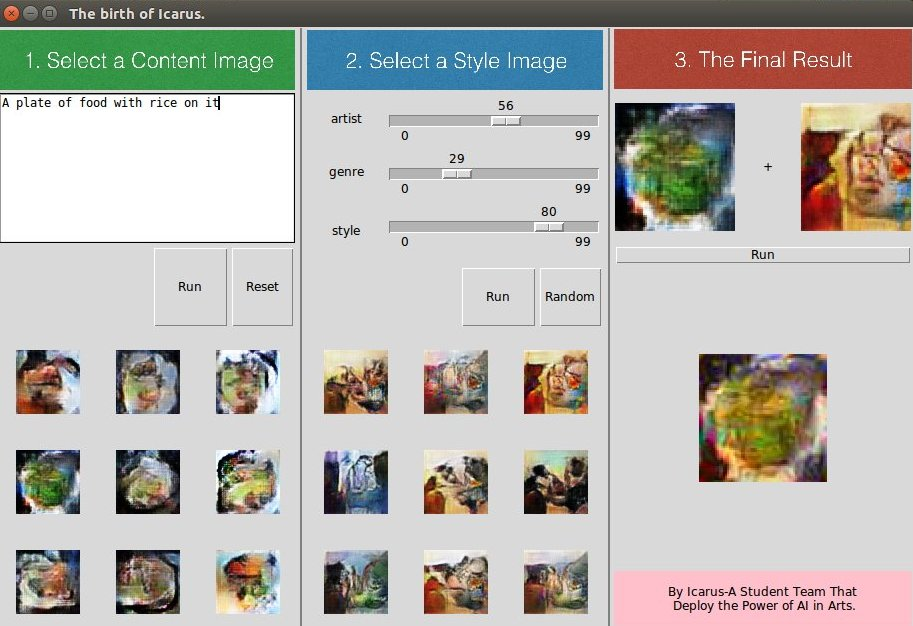
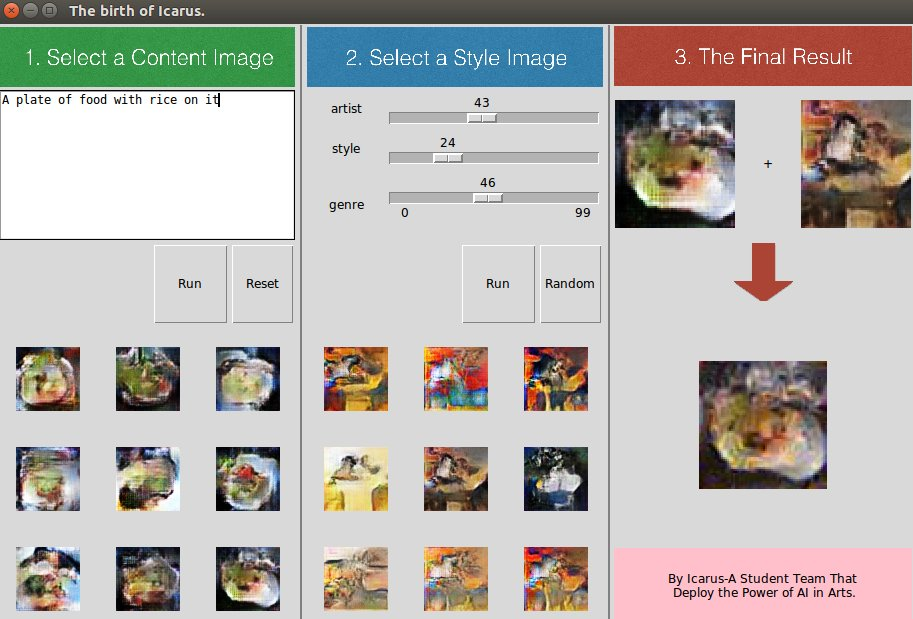
update the UI

diff --git a/GUI.py b/GUI.py
@@ -6,7 +6,6 @@ from utils import *
 from embedding import tools
 import scipy.misc
 import numpy as np
-import os
 
 
 
@@ -33,7 +32,7 @@ class GUI:
 		self.dcgan = dcgan
 		self.dcgan2 = dcgan2
 		self.master = master
-		button_height=10
+
 
 		self.zdata = np.zeros(90,dtype=np.int32)
 
@@ -91,25 +90,25 @@ class GUI:
 		self.middleup.add(self.barmiddleup, height=bar_height)
 
 		self.middleinput = PanedWindow(self.middle, orient=VERTICAL)
-		self.middleup.add(self.middleinput, width=unit_width, height=input_height+button_height)
+		self.middleup.add(self.middleinput, width=unit_width, height=input_height)
 
 		self.i1 = PanedWindow(self.middleinput, orient=HORIZONTAL)
-		self.middleinput.add(self.i1, height=input_height/3)
-		self.l1 = Label(self.i1, text="artist")
+		self.middleinput.add(self.i1, height=input_height/4)
+		self.l1 = Label(self.i1, text="xxx")
 		self.i1.add(self.l1, width=unit_width/4)
 		self.s1 = Scale(self.i1, from_=0, width=10, to=99, length=30, tickinterval=99, orient=HORIZONTAL, command=self.slided1)
 		self.i1.add(self.s1, width=3*unit_width/4)
 
 		self.i2 = PanedWindow(self.middleinput, orient=HORIZONTAL)
-		self.middleinput.add(self.i2, height=input_height/3)
-		self.l2 = Label(self.i2, text="genre")
+		self.middleinput.add(self.i2, height=input_height/4)
+		self.l2 = Label(self.i2, text="xxx")
 		self.i2.add(self.l2, width=unit_width/4)
 		self.s2 = Scale(self.i2, from_=0, width=10, to=99, length=30, tickinterval=99, orient=HORIZONTAL, command=self.slided2)
 		self.i2.add(self.s2, width=3*unit_width/4)
 
 		self.i3 = PanedWindow(self.middleinput, orient=HORIZONTAL)
-		self.middleinput.add(self.i3, height=input_height/3)
-		self.l3 = Label(self.i3, text="style")
+		self.middleinput.add(self.i3, height=input_height/4)
+		self.l3 = Label(self.i3, text="xxx")
 		self.i3.add(self.l3, width=unit_width/4)
 		self.s3 = Scale(self.i3, from_=0, width=10, to=99, length=30, tickinterval=99, orient=HORIZONTAL, command=self.slided3)
 		self.i3.add(self.s3, width=3*unit_width/4)
@@ -149,14 +148,16 @@ class GUI:
 
 
 		self.projectButtons = PanedWindow(self.right, orient=HORIZONTAL)
-		self.right.add(self.projectButtons, width=unit_width, height=button_height)
-		self.projectButtonrun = Button(self.projectButtons, text="Run", command=self.projectRun)
+		self.right.add(self.projectButtons, width=unit_width, height=bar_height)
+		self.arrowimage = ImageTk.PhotoImage(Image.open("./icons/arrow.png").resize((bar_height,bar_height)))
+		self.projectButtonrun = Label(self.projectButtons, image=self.arrowimage)
 		#self.projectClose = Button(self.projectButtons, text="Close", command=master.quit)
 		self.projectButtons.add(self.projectButtonrun, width=unit_width/2, height=bar_height)
+		self.projectButtonrun.bind("<Button-1>", self.projectRun)
 		#self.projectButtons.add(self.projectClose, width=unit_width/2, height=bar_height)
 
 		self.mergedimage = Label(self.right)
-		self.right.add(self.mergedimage, height=unit_height, width=unit_width)
+		self.right.add(self.mergedimage, height=unit_height - bar_height, width=unit_width)
 
 		#self.blank3 = Label(self.right)
 		#self.right.add(self.blank3, width=unit_width, height=bar_height)
@@ -233,7 +234,7 @@ class GUI:
 		self.scaleRun()
 	
 		
-	def projectRun(self):
+	def projectRun(self, event):
 		os.system('python neural_style.py --content content.jpg --styles style.jpg --output output.jpg')
 		self.bigimg=ImageTk.PhotoImage(Image.open("output.jpg").resize((finalsize,finalsize)))
 		self.mergedimage.config(image=self.bigimg)	
